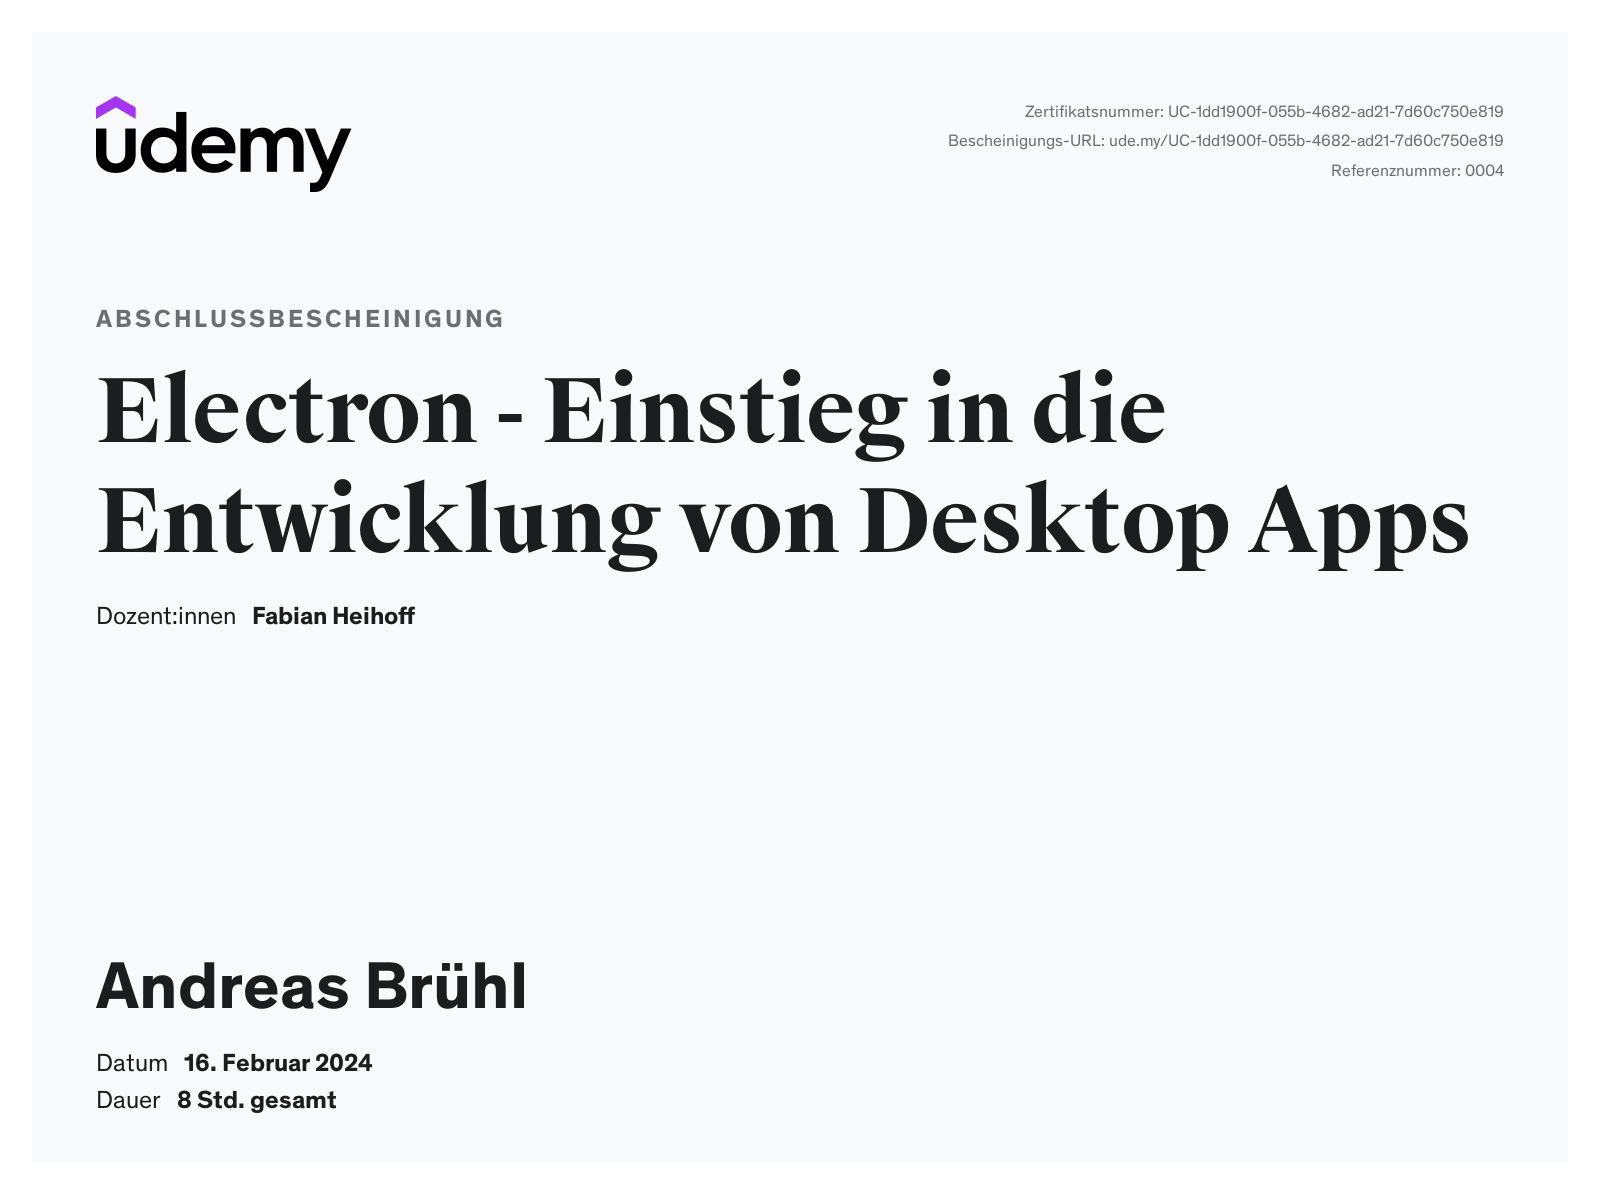
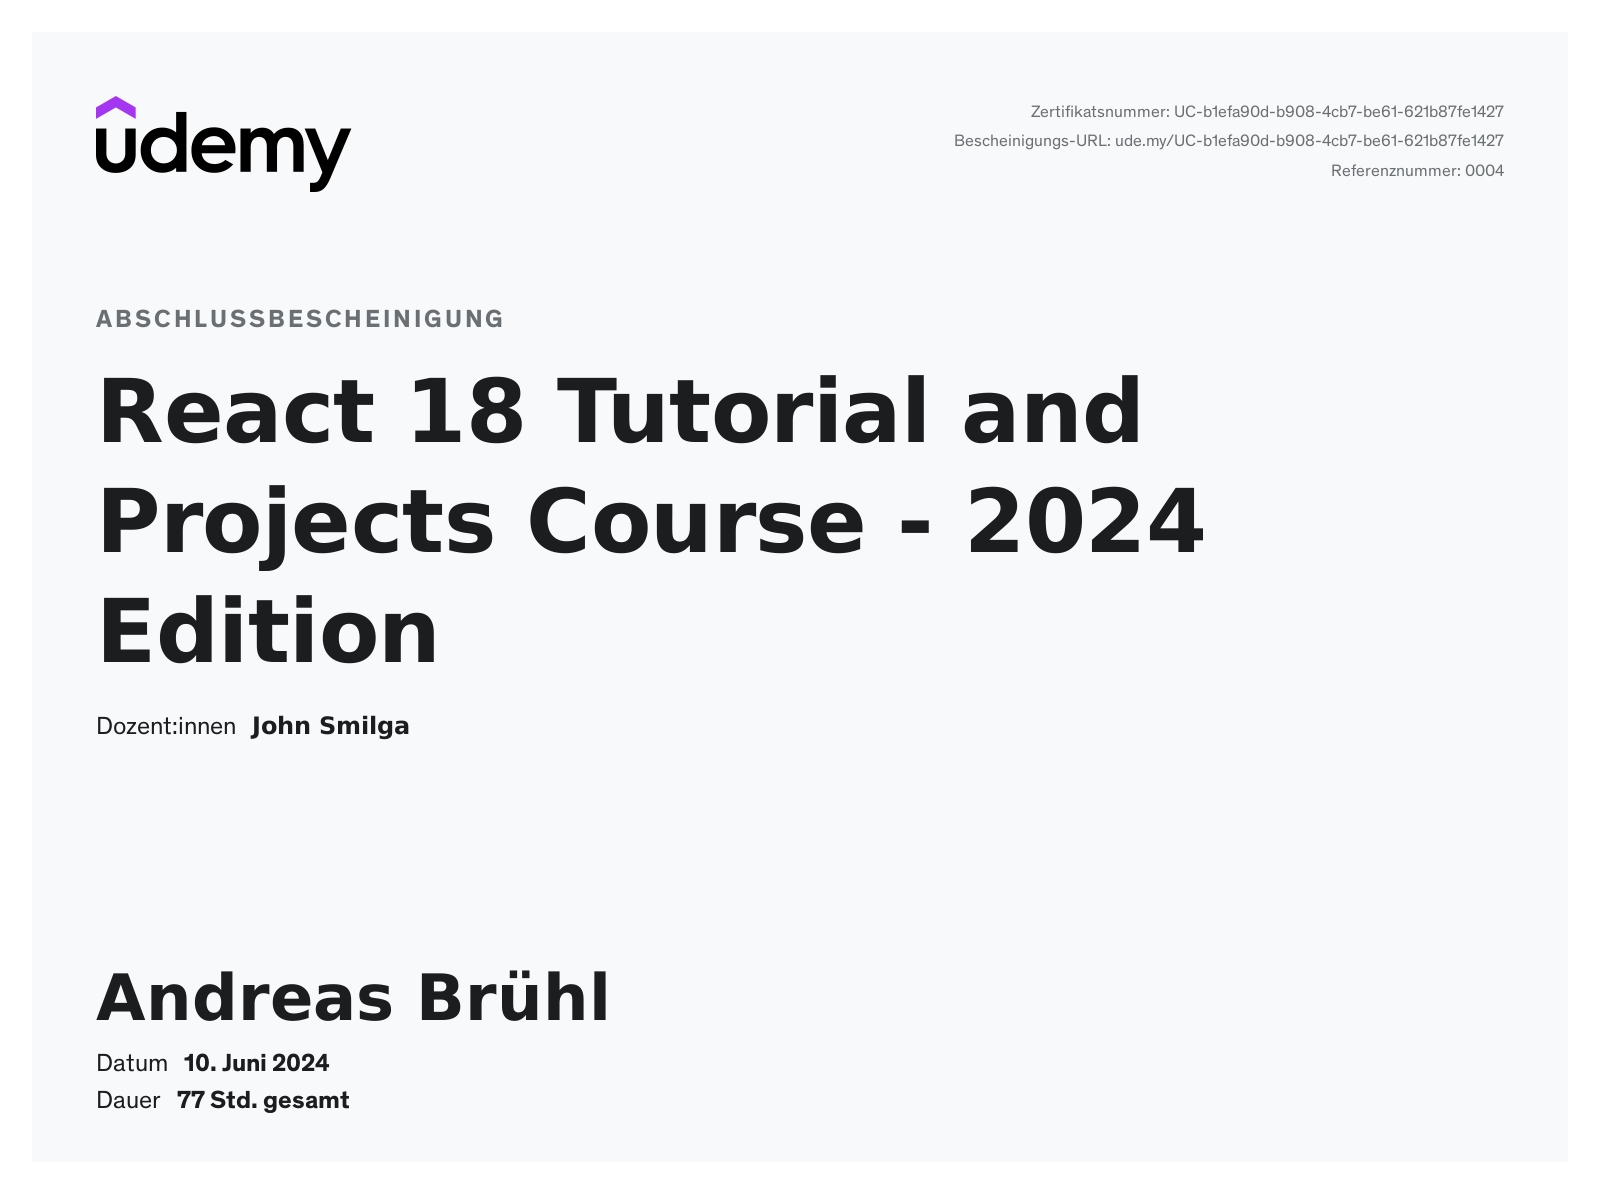
changed names and added gdpr certificate

diff --git a/src/components/NavBar/NavLinks.js b/src/components/NavBar/NavLinks.js
@@ -16,16 +16,16 @@ const NavLinks = ({ isMobile, closeMobileMenu }) => {
   };
 
   const links = [
-    { name: "Home", href: "/", delay: 0.05 },
-    { name: "About", href: "/about", delay: 0.1 },
+    { name: "Start", href: "/", delay: 0.05 },
+    { name: "Überblick", href: "/about", delay: 0.1 },
     { name: "Skills", href: "/skills", delay: 0.15 },
     { name: "Portfolio", href: "/portfolio", delay: 0.2 },
     { name: "Links", href: "/links", delay: 0.25 },
     // { name: "YouTube", href: "/youtube", delay: 0.3 },
-    { name: "Certificates", href: "/certs", delay: 0.35 },
+    { name: "Zertifikate", href: "/certs", delay: 0.35 },
     { name: "Downloads", href: "/downloads", delay: 0.4 },
-    { name: "Contact", href: "/contact", delay: 0.45 },
-    { name: "Imprint", href: "/imprint", delay: 0.45, hidden: true },
+    { name: "Kontakt", href: "/contact", delay: 0.45 },
+    { name: "Impressum", href: "/imprint", delay: 0.45, hidden: true },
   ];
 
   return (

diff --git a/src/components/About/AboutText.js b/src/components/About/AboutText.js
@@ -5,9 +5,9 @@ const AboutText = () => {
     <>
       <h2>Hallo, ich bin Andreas Brühl ...</h2>
       <p>
-        ... ein begeisterter DevOps-Experte und AWS Cloud Practitioner auf der
-        Suche nach einem Fullstack-Job. Meine Reise in die Technologie begann
-        früh, und meine Leidenschaft dafür hat mich bis heute nicht losgelassen.{" "}
+        ... ein begeisterter React-Entwickler auf der Suche nach einem
+        Fullstack-Job. Meine Reise in die Technologie begann früh, und meine
+        Leidenschaft dafür hat mich bis heute nicht losgelassen.{" "}
       </p>
       <p>
         Ich verfüge über umfangreiche Kenntnisse und Erfahrungen in der

diff --git a/src/components/Downloads/DownloadsData.js b/src/components/Downloads/DownloadsData.js
@@ -30,9 +30,9 @@ const downloadsData = [
     link: "https://drive.google.com/file/d/1yjGqSnotTH397PBEdwSeJ8HEZQSLuyBw/view?usp=drive_link",
   },
   {
-    id: "MemSnap-Download",
+    id: "MemSnapBeta-Download",
     handler: "memSnapDownloadCert",
-    text: "↓ MemSnap.apk - Save your favorite locations on your device!",
+    text: "↓ MemSnapBeta.apk - Save your favorite locations on your device!",
     link: "https://drive.google.com/file/d/1utOkPZFcylJ6PV0vZ7ib2IMeFEftJO40/view?usp=drive_link",
   },
   {

diff --git a/src/components/Certs/ImageImport.jsx b/src/components/Certs/ImageImport.jsx
@@ -1,3 +1,4 @@
+import slide_image_0 from "./assets/images/image0.png";
 import slide_image_1 from "./assets/images/image1.png";
 import slide_image_2 from "./assets/images/image2.png";
 import slide_image_3 from "./assets/images/image3.png";
@@ -28,6 +29,7 @@ import slide_image_27 from "./assets/images/image27.png";
 import slide_image_28 from "./assets/images/image28.png";
 
 const images = [
+  slide_image_0,
   slide_image_1,
   slide_image_2,
   slide_image_3,

diff --git a/src/components/Contact/Imprint.js b/src/components/Contact/Imprint.js
@@ -122,6 +122,7 @@ const Impressum = () => {
               <p>
                 <strong>Haftung für Links</strong>
                 <br />
+                <br></br>
                 Unser Angebot enthält Links zu externen Webseiten Dritter oder
                 kann diese enthalten, auf deren Inhalte wir keinen Einfluss
                 haben. Deshalb können wir für diese fremden Inhalte auch keine

diff --git a/src/components/Certs/Certs.js b/src/components/Certs/Certs.js
@@ -91,7 +91,7 @@ const Certs = () => {
       className="container"
     >
       <div id="certs">
-        <PageHeader title={"Certificates"} />
+        <PageHeader title={"Zertifikate"} />
         <Header
           initial={{ opacity: 0 }}
           animate={{ opacity: 1 }}

diff --git a/src/components/Skills/skillsData.js b/src/components/Skills/skillsData.js
@@ -3,7 +3,7 @@
 export const skillData = [
   {
     title: "BACKEND / Database",
-    skills: [" Python - NodeJS - C#"],
+    skills: [" Python - NodeJS "],
   },
   {
     title: "FRONTEND",

diff --git a/src/components/Home/wordList.js b/src/components/Home/wordList.js
@@ -16,7 +16,7 @@ const words = [
   "GCP",
   "sqlite",
   "Electron",
-  "c#",
+  // "c#",
 ];
 
 export default words;
